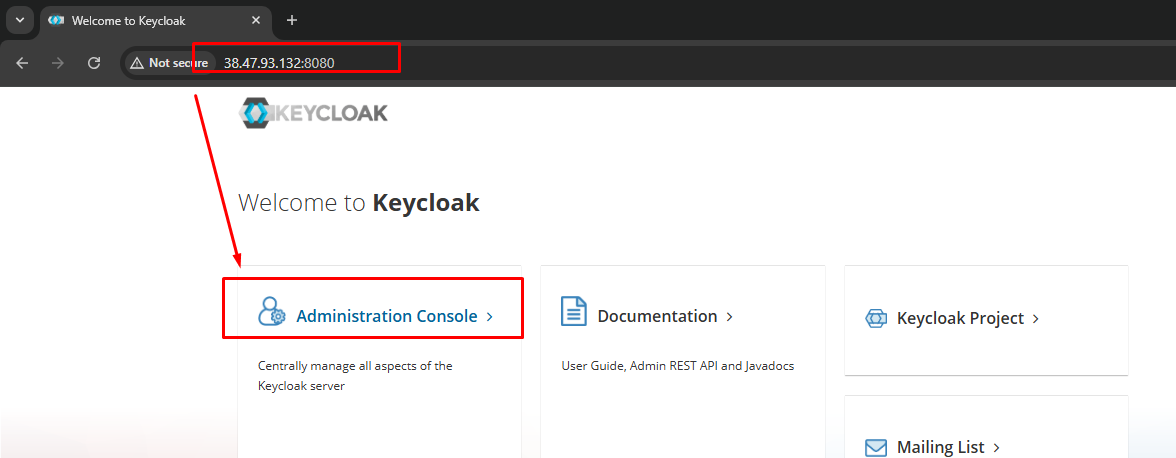
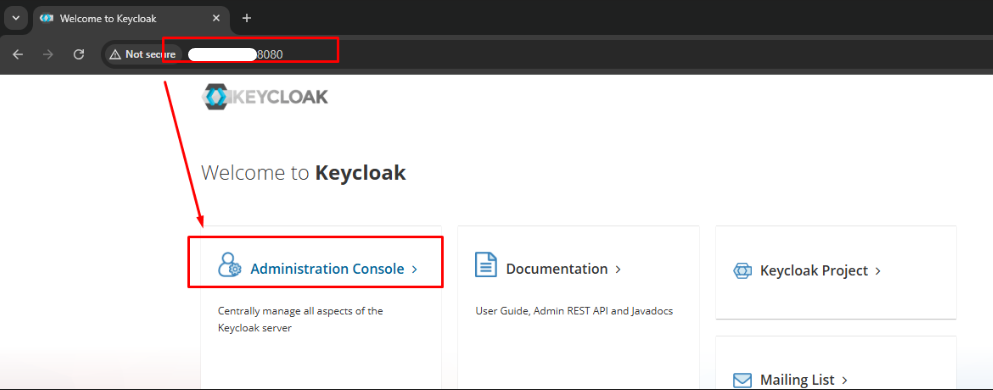
New-Doc

diff --git a/README.md b/README.md
@@ -20,7 +20,7 @@ Implementasi SSO Middleware dengan Pendekatan JIT Provisioning dan Synthetic Log
 - 2 vCPU
 - 4 GB RAM
 - 30 GB (vda)
-- Public IP Address (**************)
+- Public IP Address (******\*\*******)
 
 ## Tools Requirement
 
@@ -141,7 +141,7 @@ services:
       - redis
     environment:
       APP_SECRET: "**************"
-      DATABASE_URL: "postgresql://**************:**************@postgres:5432/docmost?schema=public"
+      DATABASE_URL: "postgresql://*********user:**********password@postgres:5432/docmost?schema=public"
       REDIS_URL: "redis://redis:6379"
     networks:
       - internal_net
@@ -161,19 +161,19 @@ services:
       # Database Config
       DB_HOST: "**************"
       DB_PASS: "**************"
-      
+
       # Internal URLs (Komunikasi antar container Docker)
       DOCMOST_INTERNAL_URL: "http://app_docmost:3000"
       KEYCLOAK_INTERNAL_URL: "http://idp_keycloak:8080"
-      
+
       # Public URLs (Redirect Browser)
       KEYCLOAK_PUBLIC_URL: "http://**************:8080"
       APP_BASE_URL: "http://**************:3000"
-      
+
       # Keycloak Client Credentials (Agar Gatekeeper bisa tukar token)
       KEYCLOAK_CLIENT_ID: "**************"
       KEYCLOAK_CLIENT_SECRET: "**************"
-      
+
     depends_on:
       - postgres
       - docmost
@@ -364,7 +364,7 @@ def sync_user_and_get_session_password(email):
         if not existing:
             user_id = str(uuid.uuid4())
             cur.execute("""
-                INSERT INTO users (id, name, email, password, workspace_id, role, email_verified_at, created_at, updated_at, has_generated_password, settings, locale, timezone) 
+                INSERT INTO users (id, name, email, password, workspace_id, role, email_verified_at, created_at, updated_at, has_generated_password, settings, locale, timezone)
                 VALUES (%s, %s, %s, %s, %s, %s, NOW(), NOW(), NOW(), false, %s, %s, %s)
             """, (user_id, full_name, email, hashed_pass, primary_workspace_id, ROLE_WORKSPACE_MEMBER, DEFAULT_SETTINGS, DEFAULT_LOCALE, DEFAULT_TIMEZONE))
 
@@ -373,7 +373,7 @@ def sync_user_and_get_session_password(email):
 
             if general_space:
                 cur.execute("""
-                    INSERT INTO space_members (id, space_id, user_id, group_id, role, created_at, updated_at) 
+                    INSERT INTO space_members (id, space_id, user_id, group_id, role, created_at, updated_at)
                     VALUES (%s, %s, %s, NULL, %s, NOW(), NOW())
                 """, (str(uuid.uuid4()), general_space[0], user_id, ROLE_SPACE_READER))
 
@@ -400,7 +400,7 @@ def nuke_all_cookies(resp):
     Menghapus cookie se-agresif mungkin.
     """
     cookies_to_kill = ['docmost_session', 'docmost_userid', 'sso_id_token', 'force_sso_logout']
-    
+
     for cookie in cookies_to_kill:
         resp.set_cookie(cookie, '', expires=0, max_age=0, path='/')
         resp.set_cookie(cookie, '', expires=0, max_age=0, path='/', httponly=True)
@@ -427,7 +427,7 @@ def login_callback():
 
     token_url = f"{KEYCLOAK_INTERNAL_URL}/realms/{KEYCLOAK_REALM}/protocol/openid-connect/token"
     redirect_uri = f"{APP_BASE_URL}/auth/callback"
-    
+
     payload = {
         'grant_type': 'authorization_code',
         'client_id': KEYCLOAK_CLIENT_ID,
@@ -439,12 +439,12 @@ def login_callback():
     try:
         r = requests.post(token_url, data=payload, verify=False, timeout=10)
         token_data = r.json()
-        
+
         if 'access_token' not in token_data:
             print(f"[KEYCLOAK ERROR] {r.text}", file=sys.stderr)
             return f"Gagal Token: {r.text}", 401
 
-        id_token = token_data.get('id_token') 
+        id_token = token_data.get('id_token')
         access_token = token_data['access_token']
 
         user_info_url = f"{KEYCLOAK_INTERNAL_URL}/realms/{KEYCLOAK_REALM}/protocol/openid-connect/userinfo"
@@ -464,7 +464,7 @@ def login_callback():
 
         if dm_resp.status_code in [200, 201]:
             final_resp = make_response(redirect('/'))
-            
+
             # Pasang Cookie ID Token (Wajib ada untuk bypass login)
             if id_token:
                 final_resp.set_cookie('sso_id_token', id_token, path='/', httponly=True, samesite='Lax')
@@ -475,10 +475,10 @@ def login_callback():
                 token = data.get('accessToken') or data.get('token')
                 if token:
                     final_resp.set_cookie('docmost_session', token, path='/', httponly=True, samesite='Lax')
-            
+
             for k, v in upstream_cookies.items():
                 final_resp.set_cookie(k, v, path='/', httponly=True, samesite='Lax')
-            
+
             return final_resp
         else:
             return f"Login Backend Fail: {dm_resp.status_code}", 500
@@ -503,22 +503,22 @@ def proxy(path):
     if request.cookies.get('force_sso_logout') == 'true':
         id_token_hint = request.cookies.get('sso_id_token')
         post_logout_redirect = urllib.parse.quote(f"{APP_BASE_URL}/auth/login")
-        
+
         logout_url = f"{KEYCLOAK_PUBLIC_URL}/realms/{KEYCLOAK_REALM}/protocol/openid-connect/logout?post_logout_redirect_uri={post_logout_redirect}&client_id={KEYCLOAK_CLIENT_ID}"
         if id_token_hint:
             logout_url += f"&id_token_hint={id_token_hint}"
-            
+
         resp = make_response(redirect(logout_url))
         nuke_all_cookies(resp)
         return resp
 
     # 2. DEFINISI WHITELIST (File aset boleh lewat tanpa login)
     is_whitelisted = (
-        path in ["auth/login", "auth/callback"] or 
-        path.startswith("assets") or 
-        path.startswith("_next") or 
-        path.startswith("setup") or 
-        path.startswith("api/public") or 
+        path in ["auth/login", "auth/callback"] or
+        path.startswith("assets") or
+        path.startswith("_next") or
+        path.startswith("setup") or
+        path.startswith("api/public") or
         path == "manifest.json" or
         path == "favicon.ico" or
         path == "robots.txt" or
@@ -532,7 +532,7 @@ def proxy(path):
     # 3. CEK AUTENTIKASI KETAT
     # Jika browser tidak punya 'sso_id_token' DAN tidak punya 'docmost_session',
     # maka browser dianggap tamu ilegal -> Redirect Login.
-    
+
     has_valid_session = request.cookies.get('sso_id_token') or request.cookies.get('docmost_session')
 
     if not has_valid_session and not is_whitelisted:
@@ -542,7 +542,7 @@ def proxy(path):
     try:
         url = f"{DOCMOST_INTERNAL_URL}/{path}"
         if request.query_string: url += f"?{request.query_string.decode('utf-8')}"
-        
+
         headers = {k: v for k, v in request.headers if k.lower() != 'host'}
 
         resp = requests.request(
@@ -553,10 +553,10 @@ def proxy(path):
             cookies=request.cookies,
             allow_redirects=False
         )
-        
+
         excluded_headers = ['content-encoding', 'content-length', 'transfer-encoding', 'connection']
         headers = [(name, value) for (name, value) in resp.raw.headers.items() if name.lower() not in excluded_headers]
-        
+
         final_response = Response(resp.content, resp.status_code, headers)
 
         # 5. MENCEGAH CACHE HALAMAN DASHBOARD
@@ -586,7 +586,7 @@ docker compose up -d postgres keycloak
 ![](https://raw.githubusercontent.com/ica4me/docmost-sso-custom/main/dokumentasi/019c3883-a475-77a6-abdc-8a0af7b6c9cb/image.png)
 
 > Buat Database Docmost
-> 
+>
 > Karena Docmost butuh database sendiri,jadi harus masuk ke postgres sebentar untuk bikin DB kosong.
 
 ```bash
@@ -608,6 +608,7 @@ CREATE DATABASE docmost;
 > [http://IP_SERVER:8080](http://**************:8080)
 
 ![](https://raw.githubusercontent.com/ica4me/docmost-sso-custom/main/dokumentasi/019c3888-36b7-72ec-9be5-c89159f9f636/image.png)
+
 <details>
 <summary>HTTPS required Error ⚠</summary>
 
@@ -752,6 +753,7 @@ Client ID harus sama dengan isi `docker-compose.yml`
 ```bash
 KEYCLOAK_CLIENT_ID: "poc-docmos"
 ```
+
 :::
 
 ![](https://raw.githubusercontent.com/ica4me/docmost-sso-custom/main/dokumentasi/019c38b3-17b3-739d-9762-e39e72e499fb/image.png)
@@ -763,7 +765,7 @@ KEYCLOAK_CLIENT_ID: "poc-docmos"
 ![](https://raw.githubusercontent.com/ica4me/docmost-sso-custom/main/dokumentasi/019c38b5-861e-71a2-b582-2ad7ba4ddddd/image.png)
 
 :::info
-Login settings Valid redirect URIs: http://**************:3000/* (Tanda bintang hanya di development, di production wajib link spesifik).
+Login settings Valid redirect URIs: http://******\*\*******:3000/\* (Tanda bintang hanya di development, di production wajib link spesifik).
 :::
 
 > Selanjutnya Ambil Secret dari Client Secret.
@@ -774,7 +776,7 @@ Login settings Valid redirect URIs: http://**************:3000/* (Tanda bintang 
 
 ![](https://raw.githubusercontent.com/ica4me/docmost-sso-custom/main/dokumentasi/019c38b9-c8af-760a-8eec-12e3e36c508b/image.png)
 
-> **********avlMXVzYk*****
+> ****\*\*****avlMXVzYk**\***
 
 :::info
 Masukkan ke dalam `docker-compose.yml`
@@ -784,6 +786,7 @@ bagian Gatekeeper:
 ```bash
 KEYCLOAK_CLIENT_SECRET: "disini-client-secret"
 ```
+
 :::
 
 > Selanjutnya Nyalakan Semua Container
@@ -1002,7 +1005,7 @@ styles=css/styles.css
       <div id="kc-form-wrapper">
         <#if realm.password>
             <form id="kc-form-login" onsubmit="login.disabled = true; return true;" action="${url.loginAction}" method="post">
-                
+
                 <div class="${properties.kcFormGroupClass!}">
                     <label for="username" class="${properties.kcLabelClass!}"><#if !realm.loginWithEmailAllowed>${msg("username")}<#elseif !realm.registrationEmailAsUsername>${msg("usernameOrEmail")}<#else>${msg("email")}</#if></label>
 
@@ -1046,7 +1049,7 @@ styles=css/styles.css
             </form>
         </#if>
       </div>
-      
+
       <#if realm.password && social.providers??>
         <div id="kc-social-providers" class="${properties.kcFormSocialAccountSectionClass!}">
             <hr/>
@@ -1061,7 +1064,7 @@ styles=css/styles.css
             </ul>
         </div>
       </#if>
-      
+
     </div>
     </#if>
 </@layout.registrationLayout>
@@ -1078,15 +1081,15 @@ styles=css/styles.css
         ${msg("doLogIn")}
     <#elseif section = "form">
         <form id="kc-otp-login-form" class="${properties.kcFormClass!}" action="${url.loginAction}" method="post">
-            
+
             <div class="${properties.kcFormGroupClass!}">
                 <div class="${properties.kcLabelWrapperClass!}">
                     <label for="otp" class="${properties.kcLabelClass!}">${msg("loginOtpOneTime")}</label>
                 </div>
-                
+
                 <div class="${properties.kcInputWrapperClass!}">
                     <input id="otp" name="otp" autocomplete="off" type="text" class="form-control" autofocus aria-invalid="<#if messagesPerField.existsError('totp')>true</#if>"/>
-                    
+
                     <#if messagesPerField.existsError('totp')>
                         <span id="input-error-otp-code" class="${properties.kcInputErrorMessageClass!}" aria-live="polite" style="color:red; margin-top:5px; display:block;">
                             ${kcSanitize(messagesPerField.get('totp'))?no_esc}
@@ -1122,9 +1125,9 @@ styles=css/styles.css
 
             <form class="form-actions" action="${url.logoutConfirmAction}" method="POST">
                 <input type="hidden" name="session_code" value="${logoutConfirm.code}">
-                
+
                 <div id="kc-form-buttons" class="${properties.kcFormGroupClass!}">
-                    <input class="${properties.kcButtonClass!} ${properties.kcButtonPrimaryClass!} ${properties.kcButtonBlockClass!} ${properties.kcButtonLargeClass!}" 
+                    <input class="${properties.kcButtonClass!} ${properties.kcButtonPrimaryClass!} ${properties.kcButtonBlockClass!} ${properties.kcButtonLargeClass!}"
                            name="confirmLogout" id="kc-logout" type="submit" value="${msg("doLogout")}"/>
                 </div>
             </form>
@@ -1240,28 +1243,28 @@ Sistem ini bekerja dengan menempatkan Gatekeeper (Python Middleware) sebagai per
 Berikut adalah 4 tahapan prosesnya:
 
 - Intersepsi & Validasi Identitas  
-    User membuka domain docmost  
-    Nginx meneruskan permintaan ke Gatekeeper.  
-    Gatekeeper memeriksa apakah browser pengguna memiliki Cookie sso_id_token atau docmost_session.  
-    Jika tidak ada Cookie, Gatekeeper melempar pengguna ke halaman login Keycloak.
+   User membuka domain docmost  
+   Nginx meneruskan permintaan ke Gatekeeper.  
+   Gatekeeper memeriksa apakah browser pengguna memiliki Cookie sso_id_token atau docmost_session.  
+   Jika tidak ada Cookie, Gatekeeper melempar pengguna ke halaman login Keycloak.
 - Autentikasi Terpusat  
-    Keycloak menampilkan formulir login.  
-    User memasukkan username & password akun Active Directory.  
-    Keycloak memverifikasi kredensial tersebut langsung ke server Active Directory/LDAP.  
-    Jika valid, Keycloak mengirimkan data pengguna (Email & Nama) kembali ke Gatekeeper melalui protokol OpenID Connect (OIDC).  
-    Password asli AD tidak pernah dikirim ke Gatekeeper atau Docmost.
+   Keycloak menampilkan formulir login.  
+   User memasukkan username & password akun Active Directory.  
+   Keycloak memverifikasi kredensial tersebut langsung ke server Active Directory/LDAP.  
+   Jika valid, Keycloak mengirimkan data pengguna (Email & Nama) kembali ke Gatekeeper melalui protokol OpenID Connect (OIDC).  
+   Password asli AD tidak pernah dikirim ke Gatekeeper atau Docmost.
 - Sinkronisasi Kilat & Kredensial Sementara  
-    Ini adalah inti dari bypass sistem:  
-    Gatekeeper menerima email pengguna yang terverifikasi (misal: [wahyudi@datacomm.co.id](mailto:wahyudi@datacomm.co.id)).  
-    Gatekeeper membuat password acak 32 karakter (kredensial sekali pakai) yang sangat kuat.  
-    JIT (Just-In-Time) Provisioning: Gatekeeper melakukan koneksi langsung ke database PostgreSQL Docmost:  
-    Jika pengguna BARU: Gatekeeper membuat user baru di database Docmost dengan password acak tersebut.  
-    Jika pengguna LAMA: Gatekeeper menimpa password lama di database dengan password acak yang baru dibuat.
+   Ini adalah inti dari bypass sistem:  
+   Gatekeeper menerima email pengguna yang terverifikasi (misal: [wahyudi@datacomm.co.id](mailto:wahyudi@datacomm.co.id)).  
+   Gatekeeper membuat password acak 32 karakter (kredensial sekali pakai) yang sangat kuat.  
+   JIT (Just-In-Time) Provisioning: Gatekeeper melakukan koneksi langsung ke database PostgreSQL Docmost:  
+   Jika pengguna BARU: Gatekeeper membuat user baru di database Docmost dengan password acak tersebut.  
+   Jika pengguna LAMA: Gatekeeper menimpa password lama di database dengan password acak yang baru dibuat.
 - Login Sintetis & Injeksi Sesi  
-    Gatekeeper bertindak sebagai "robot" yang melakukan login ke API Docmost (POST /api/auth/login) menggunakan email user dan password acak tadi.  
-    Docmost memvalidasi login sukses dan memberikan Session Cookie.  
-    Gatekeeper mengambil cookie tersebut dan menanamkannya (inject) ke browser pengguna.  
-    Redirect: Pengguna diarahkan kembali ke halaman utama. Browser pengguna kini memiliki sesi valid seolah-olah mereka login manual.
+   Gatekeeper bertindak sebagai "robot" yang melakukan login ke API Docmost (POST /api/auth/login) menggunakan email user dan password acak tadi.  
+   Docmost memvalidasi login sukses dan memberikan Session Cookie.  
+   Gatekeeper mengambil cookie tersebut dan menanamkannya (inject) ke browser pengguna.  
+   Redirect: Pengguna diarahkan kembali ke halaman utama. Browser pengguna kini memiliki sesi valid seolah-olah mereka login manual.
 
 </details>
 <details>
